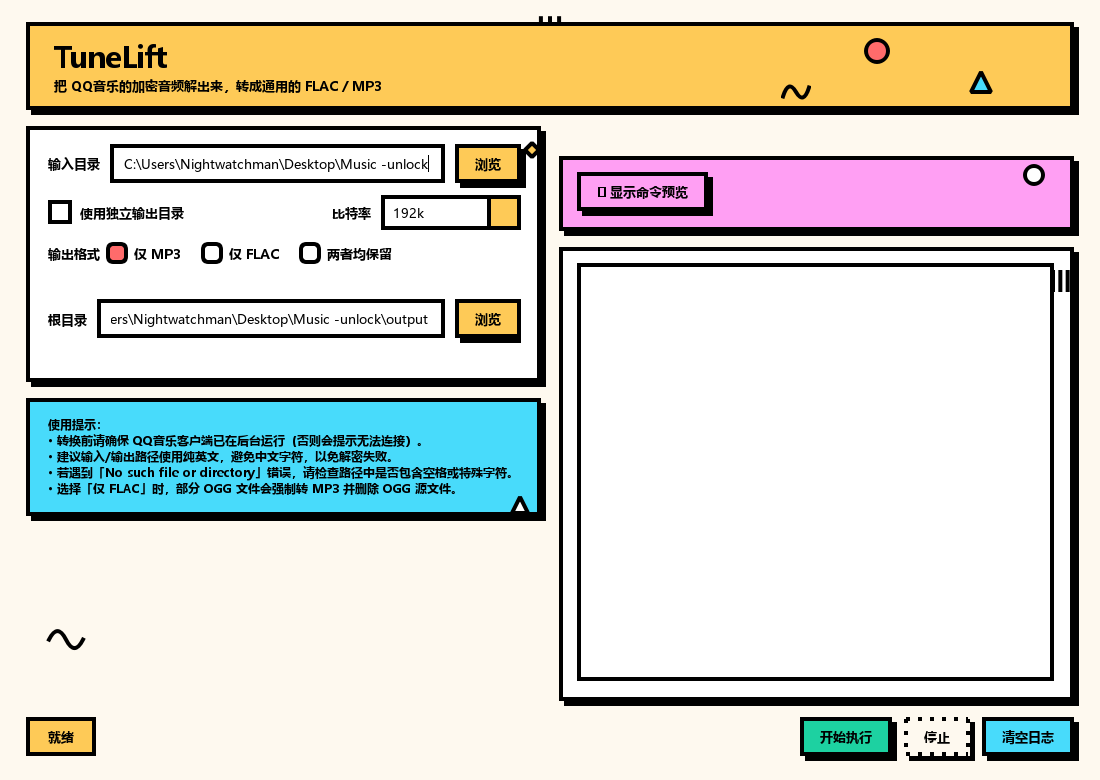
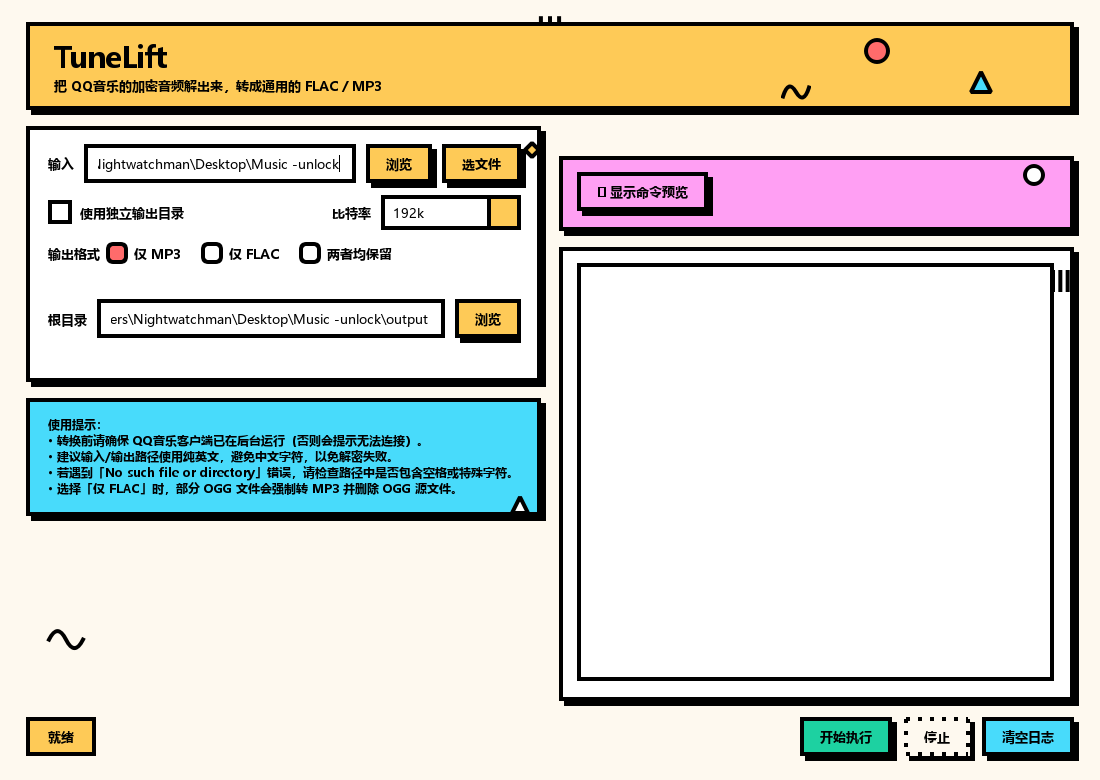
支持单个歌曲，且没有加密文件时不再动文件系统
两处行为调整：

1) 目录里没有加密音频时什么都不做
   run_decrypt 原先的顺序是先建输出目录、再扫描有没有活干，于是对着一个
   普通的音乐文件夹跑一次，就会凭空多出 output\flac。改成先扫描、
   没活干就直接返回，不创建任何目录、不碰任何文件。

2) -i 支持单个加密音频文件
   以前只接受目录，想转一首歌得先把它单独放进一个文件夹。现在
   resolve_input 同时接受目录与 .mflac/.mgg 文件，给的不是加密音频
   会明确报错而不是默默跳过。界面上相应加了「选文件」按钮，
   输入行标签从「输入目录」改为「输入」。

测试 47 -> 57，新增：输入解析的四种情形、collect_sources 的目录/单文件
两种模式、单曲端到端、以及「空目录不建输出目录」这条回归。

Changed region(s): [[0.0618, 0.1846, 0.4636, 0.2462]]

diff --git a/main.py b/main.py
@@ -165,12 +165,35 @@ def _decryptor() -> Iterator[Script]:
         session.detach()
 
 
-def collect_sources(root: str) -> list[Path]:
-    """递归收集 root 下所有待解密的文件，按路径排序。"""
+def resolve_input(raw: str) -> Path:
+    """解析 -i 的取值并确认它确实能用。
+
+    两种都支持：一个目录（递归处理里面的加密音频），或**单个加密音频文件**。
+    只想转一首歌时，直接把文件路径丢给 -i 就行，不必先给它建个目录。
+    """
+    path = Path(raw).expanduser()
+    if path.is_dir():
+        return path
+    if path.is_file():
+        if path.suffix.lower() in SOURCE_SUFFIXES:
+            return path
+        raise TuneLiftError(f"不是支持的加密音频: {path.name}（只支持 {' / '.join(SOURCE_SUFFIXES)}）")
+    raise TuneLiftError(f"输入路径不存在: {path}")
+
+
+def collect_sources(root: str | Path) -> list[Path]:
+    """收集待解密的文件，按路径排序。
+
+    root 是目录就递归找，是单个文件就用它本身——两种情况下游处理完全一样。
+    """
+    root = Path(root)
+    if root.is_file():
+        return [root]
+
     found: list[Path] = []
     for directory, _sub_dirs, filenames in os.walk(root):
         for filename in filenames:
-            if os.path.splitext(filename)[1] in SOURCE_SUFFIXES:
+            if os.path.splitext(filename)[1].lower() in SOURCE_SUFFIXES:
                 found.append(Path(directory) / filename)
     return sorted(found)
 
@@ -181,7 +204,7 @@ def _decrypt_one(script: Script, source: Path, target: Path) -> None:
     解密库只认本地路径，所以先把源文件复制到临时目录，让它把结果写到另一个
     临时文件，成功后再挪到最终位置。两个临时文件都要清理掉。
     """
-    restored_suffix = RESTORED_SUFFIX[source.suffix]
+    restored_suffix = RESTORED_SUFFIX[source.suffix.lower()]
     source_copy = tempfile.NamedTemporaryFile(suffix=source.suffix, delete=False).name
     result_copy = tempfile.NamedTemporaryFile(suffix=restored_suffix, delete=False).name
 
@@ -194,35 +217,36 @@ def _decrypt_one(script: Script, source: Path, target: Path) -> None:
         force_remove(result_copy)
 
 
-def run_decrypt(input_dir: str, flac_output_dir: str) -> tuple[int, int, int]:
-    """把 input_dir（含子目录）里的加密音频全部解密到 flac_output_dir。
+def run_decrypt(input_path: str, flac_output_dir: str) -> tuple[int, int, int]:
+    """把 input_path 里的加密音频全部解密到 flac_output_dir。
+
+    input_path 可以是目录（递归处理），也可以是单个加密音频文件。
 
     返回 (本次解密数, 失败数, 已存在跳过数)。单个文件失败只跳过它，不影响其余；
     前置条件不满足则抛 TuneLiftError。
     """
-    if not os.path.isdir(input_dir):
-        raise TuneLiftError(f"输入目录不存在: {input_dir}")
+    source_root = resolve_input(input_path)
 
-    input_dir = os.path.abspath(input_dir)
+    # 先看有没有活干，再决定要不要动文件系统。
+    # 顺序反过来的话，对着一个没有加密文件的目录跑一次，就会凭空建出输出目录。
+    sources = collect_sources(source_root)
+    if not sources:
+        logging.info("没有找到 %s 文件，什么都不用做", " 或 ".join(SOURCE_SUFFIXES))
+        return 0, 0, 0
+
     flac_output_dir = os.path.abspath(flac_output_dir)
-
     try:
         os.makedirs(flac_output_dir, exist_ok=True)
     except OSError as exc:
         logging.error("无法创建输出目录 %s: %s", flac_output_dir, exc)
         raise TuneLiftError(f"输出目录不可用: {flac_output_dir}") from exc
 
-    sources = collect_sources(input_dir)
-    if not sources:
-        logging.info("没有找到 %s 文件", " 或 ".join(SOURCE_SUFFIXES))
-        return 0, 0, 0
-
     logging.info("找到 %d 个文件，开始解密...", len(sources))
     decrypted = failed = reused = 0
 
     with _decryptor() as script:
         for index, source in enumerate(sources, 1):
-            target = Path(flac_output_dir) / (source.stem + RESTORED_SUFFIX[source.suffix])
+            target = Path(flac_output_dir) / (source.stem + RESTORED_SUFFIX[source.suffix.lower()])
             if target.exists():
                 # 上一次已经解出来了，直接复用——这样换了输出格式重跑不必从头再来
                 reused += 1
@@ -327,7 +351,9 @@ def build_output_dirs(args: argparse.Namespace) -> tuple[str, str]:
 
 def _parse_args(argv: Sequence[str] | None) -> argparse.Namespace:
     parser = argparse.ArgumentParser(description="解密 QQ音乐 mflac 文件并转换为 MP3")
-    parser.add_argument("-i", "--input", help="输入目录（包含 .mflac 文件），默认为当前目录")
+    parser.add_argument(
+        "-i", "--input", help="输入目录（递归处理其中的 .mflac / .mgg），或单个加密音频文件；默认为当前目录"
+    )
     parser.add_argument(
         "-o",
         "--output",
@@ -349,13 +375,14 @@ def main(argv: Sequence[str] | None = None) -> int:
     logging.basicConfig(level=logging.INFO, format="%(asctime)s %(levelname)s %(message)s", datefmt="%H:%M:%S")
     args = _parse_args(argv)
 
-    input_dir = os.path.abspath(args.input) if args.input else os.getcwd()
-    if not os.path.isdir(input_dir):
-        logging.error("输入目录不存在: %s", input_dir)
+    try:
+        input_path = resolve_input(args.input if args.input else os.getcwd())
+    except TuneLiftError as exc:
+        logging.error("%s", exc)
         return EXIT_BAD_USAGE
 
     flac_output_dir, mp3_output_dir = build_output_dirs(args)
-    logging.info("输入目录: %s", input_dir)
+    logging.info("输入: %s", os.path.abspath(input_path))
     logging.info("FLAC 输出: %s", flac_output_dir)
     logging.info("MP3 输出: %s", mp3_output_dir)
 
@@ -365,7 +392,7 @@ def main(argv: Sequence[str] | None = None) -> int:
         return EXIT_BAD_USAGE
 
     try:
-        decrypted, decrypt_failed, reused = run_decrypt(input_dir, flac_output_dir)
+        decrypted, decrypt_failed, reused = run_decrypt(str(input_path), flac_output_dir)
     except TuneLiftError:
         return EXIT_BAD_USAGE
 

diff --git a/tests/test_main.py b/tests/test_main.py
@@ -318,3 +318,85 @@ def test_reused_files_still_trigger_transcode(monkeypatch, tmp_path):
     monkeypatch.setattr(main, "process_audio_to_mp3", _spy)
     assert main.main(["-i", str(src), "-o", str(tmp_path / "out")]) == main.EXIT_OK
     assert called, "已存在跳过的文件也必须触发转码"
+
+
+# --------------------------------------------------------------------------
+# 输入既可以是目录，也可以是单个歌曲文件
+# --------------------------------------------------------------------------
+def test_resolve_input_accepts_a_directory(tmp_path):
+    src = tmp_path / "in"
+    src.mkdir()
+    assert main.resolve_input(str(src)) == src
+
+
+def test_resolve_input_accepts_a_single_song(tmp_path):
+    song = tmp_path / "a.mflac"
+    song.write_bytes(b"x")
+    assert main.resolve_input(str(song)) == song
+
+
+def test_resolve_input_rejects_other_file_types(tmp_path):
+    other = tmp_path / "a.mp3"
+    other.write_bytes(b"x")
+    with pytest.raises(main.TuneLiftError):
+        main.resolve_input(str(other))
+
+
+def test_resolve_input_rejects_missing_path(tmp_path):
+    with pytest.raises(main.TuneLiftError):
+        main.resolve_input(str(tmp_path / "nope"))
+
+
+def test_collect_sources_walks_a_directory(tmp_path):
+    src = tmp_path / "in"
+    (src / "sub").mkdir(parents=True)
+    (src / "a.mflac").write_bytes(b"x")
+    (src / "sub" / "b.mgg").write_bytes(b"x")
+    (src / "c.mp3").write_bytes(b"x")  # 不是加密格式，不该被收进来
+
+    assert sorted(p.name for p in main.collect_sources(src)) == ["a.mflac", "b.mgg"]
+
+
+def test_collect_sources_accepts_a_single_file(tmp_path):
+    song = tmp_path / "a.mflac"
+    song.write_bytes(b"x")
+    assert main.collect_sources(song) == [song]
+
+
+def test_main_accepts_a_single_song(monkeypatch, tmp_path):
+    """-i 直接给一个 .mflac 文件也要能跑，不必先给它建目录。"""
+    song = tmp_path / "a.mflac"
+    song.write_bytes(b"x")
+    _stub_ffmpeg(monkeypatch, tmp_path)
+
+    seen = {}
+
+    def _spy(path, _out):
+        seen["path"] = path
+        return 1, 0, 0
+
+    monkeypatch.setattr(main, "run_decrypt", _spy)
+    monkeypatch.setattr(main, "process_audio_to_mp3", lambda *a, **k: (0, 0))
+
+    assert main.main(["-i", str(song), "-o", str(tmp_path / "out")]) == main.EXIT_OK
+    assert seen["path"] == str(song)
+
+
+def test_main_rejects_a_non_encrypted_file(monkeypatch, tmp_path):
+    other = tmp_path / "a.mp3"
+    other.write_bytes(b"x")
+    _stub_ffmpeg(monkeypatch, tmp_path)
+    assert main.main(["-i", str(other)]) == main.EXIT_BAD_USAGE
+
+
+def test_run_decrypt_leaves_everything_alone_when_nothing_encrypted(tmp_path):
+    """目录里没有加密文件时，连输出目录都不该建，输入目录也一个字不动。"""
+    src = tmp_path / "in"
+    src.mkdir()
+    (src / "song.mp3").write_bytes(b"x")
+    (src / "notes.txt").write_text("x", encoding="utf-8")
+    out = tmp_path / "out"
+
+    assert main.run_decrypt(str(src), str(out)) == (0, 0, 0)
+    assert not out.exists(), "没有加密文件时不该创建输出目录"
+    assert sorted(p.name for p in src.iterdir()) == ["notes.txt", "song.mp3"]

diff --git a/GUI.py b/GUI.py
@@ -700,19 +700,25 @@ class TuneLiftWindow(QMainWindow):
         # 输入目录
         row_input = QHBoxLayout()
         row_input.setSpacing(10)
-        label_input = QLabel("输入目录")
+        label_input = QLabel("输入")
         label_input.setObjectName("label")
         self.input_edit = QLineEdit()
         self.input_edit.setObjectName("inputField")
         self.input_edit.setToolTip(
-            "包含 .mflac 或 .mgg 文件的文件夹。建议使用英文路径，避免中文、日文等特殊字符，以防解密失败。"
+            "包含 .mflac / .mgg 的文件夹（会递归处理），也可以直接填单个加密音频文件。\n"
+            "建议使用英文路径，避免中文、日文等特殊字符，以防解密失败。"
         )
         browse_input = MemphisButton("浏览")
         browse_input.setObjectName("browseBtn")
         self._browse_input = browse_input
+        pick_file = MemphisButton("选文件")
+        pick_file.setObjectName("browseBtn")
+        pick_file.setToolTip("只转某一首歌时用这个，直接挑一个 .mflac / .mgg 文件。")
+        self._pick_input_file = pick_file
         row_input.addWidget(label_input)
         row_input.addWidget(self.input_edit, 1)
         row_input.addWidget(browse_input)
+        row_input.addWidget(pick_file)
         layout.addLayout(row_input)
 
         # 输出模式 + 比特率
@@ -947,6 +953,8 @@ class TuneLiftWindow(QMainWindow):
         self._browse_root.clicked.connect(lambda: self.browse_folder(self.root_edit))
         self._browse_mp3.clicked.connect(lambda: self.browse_folder(self.mp3_edit))
         self._browse_flac.clicked.connect(lambda: self.browse_folder(self.flac_edit))
+        # 「选文件」走单曲路径，选完直接填进输入框
+        self._pick_input_file.clicked.connect(self.browse_file)
 
     # -- 行为 --------------------------------------------------------------
     def toggle_output_mode(self) -> None:
@@ -970,6 +978,22 @@ class TuneLiftWindow(QMainWindow):
             line_edit.setText(dir_path)
             if line_edit is self.input_edit:
                 self.root_edit.setText(str(Path(dir_path) / "output"))
+
+    def browse_file(self) -> None:
+        """挑单个加密音频文件填进输入框——只想转一首歌时用这个。
+
+        后端本来就支持把文件当输入，这里只是给个入口，省得手打路径。
+        """
+        path, _selected = QFileDialog.getOpenFileName(
+            self,
+            "选择歌曲",
+            self.input_edit.text(),
+            "QQ音乐加密音频 (*.mflac *.mgg);;所有文件 (*)",
+        )
+        if path:
+            self.input_edit.setText(path)
+            # 和选目录时一样，把输出根目录跟着调到它旁边，用户直接就能开始
+            self.root_edit.setText(str(Path(path).parent / "output"))
 
     def get_output_format(self) -> str:
         """按单选框返回 'mp3' / 'flac' / 'both'。"""

diff --git a/tests/test_gui.py b/tests/test_gui.py
@@ -74,6 +74,16 @@ def test_build_command_falls_back_to_main_py(window):
     assert cmd[1].endswith("main.py")
 
 
+def test_input_field_accepts_a_single_song(window, tmp_path):
+    """输入框里直接填一个歌曲文件路径，也要能拼出正确的命令行。"""
+    song = tmp_path / "a.mflac"
+    song.write_bytes(b"x")
+    window.input_edit.setText(str(song))
+
+    cmd = window.build_command()
+    assert cmd[cmd.index("-i") + 1] == str(song)
+
+
 def test_build_command_root_mode_uses_output_flag(window):
     cmd = window.build_command()
     assert "-o" in cmd

diff --git a/README.md b/README.md
@@ -40,7 +40,7 @@ TuneLift 通过注入 QQ音乐客户端完成解密，再调用 ffmpeg 转码。
 
 操作步骤：
 
-1. 点「浏览」选择包含 `.mflac` 的文件夹（留空则用程序所在目录）
+1. 点「浏览」选一个文件夹（会递归处理里面的加密音频），或点「选文件」直接挑一首歌；留空则用程序所在目录
 2. 选择输出模式（建议根目录模式）；需要分别指定位置就勾选「使用独立输出目录」
 3. 设置 MP3 比特率（默认 192k）
 4. 选择输出格式（仅 MP3 / 仅 FLAC / 两者均保留）
@@ -56,9 +56,17 @@ TuneLift 通过注入 QQ音乐客户端完成解密，再调用 ffmpeg 转码。
 main.exe -i "D:\下载" -o "D:\我的音乐" -b 320k --keep-flac
 ```
 
+`-i` 给目录就递归处理里面所有加密音频；**只想转一首歌时，直接给它文件路径即可**，不必先建目录：
+
+```bat
+main.exe -i "D:\下载\某首歌.mflac" -o "D:\我的音乐"
+```
+
+目录里没有加密音频时，程序什么都不做——不会创建输出目录，也不碰任何文件。
+
 | 参数 | 说明 |
 |---|---|
-| `-i` / `--input` | 输入目录（默认当前目录） |
+| `-i` / `--input` | 输入目录（递归处理其中的 `.mflac` / `.mgg`），或单个加密音频文件；默认为当前目录 |
 | `-o` / `--output` | 输出根目录（默认当前目录下的 `output`），其下自动创建 `mp3` 子文件夹；配合 `--keep-flac` 还会创建 `flac` |
 | `--flac-dir` | 独立指定 FLAC 输出目录（仅在 `--keep-flac` 时有效） |
 | `--mp3-dir` | 独立指定 MP3 输出目录（覆盖默认） |
@@ -66,7 +74,7 @@ main.exe -i "D:\下载" -o "D:\我的音乐" -b 320k --keep-flac
 | `--keep-flac` | 保留解密后的 FLAC（默认不保留） |
 | `--no-mp3` | 不生成 MP3，仅保留 FLAC（忽略 `--keep-flac`） |
 
-退出码：`0` 全部成功；`2` 环境或参数不满足（输入目录不存在、缺 `ffmpeg.exe`、输出目录不可用、QQ音乐未运行、解密脚本未生效）；`3` 有文件解密失败；`4` 有文件转码失败。方便在批处理里判断成败。
+退出码：`0` 全部成功；`2` 环境或参数不满足（输入路径不存在、给的不是加密音频、缺 `ffmpeg.exe`、输出目录不可用、QQ音乐未运行、解密脚本未生效）；`3` 有文件解密失败；`4` 有文件转码失败。方便在批处理里判断成败。
 
 ### 输出结构
 
